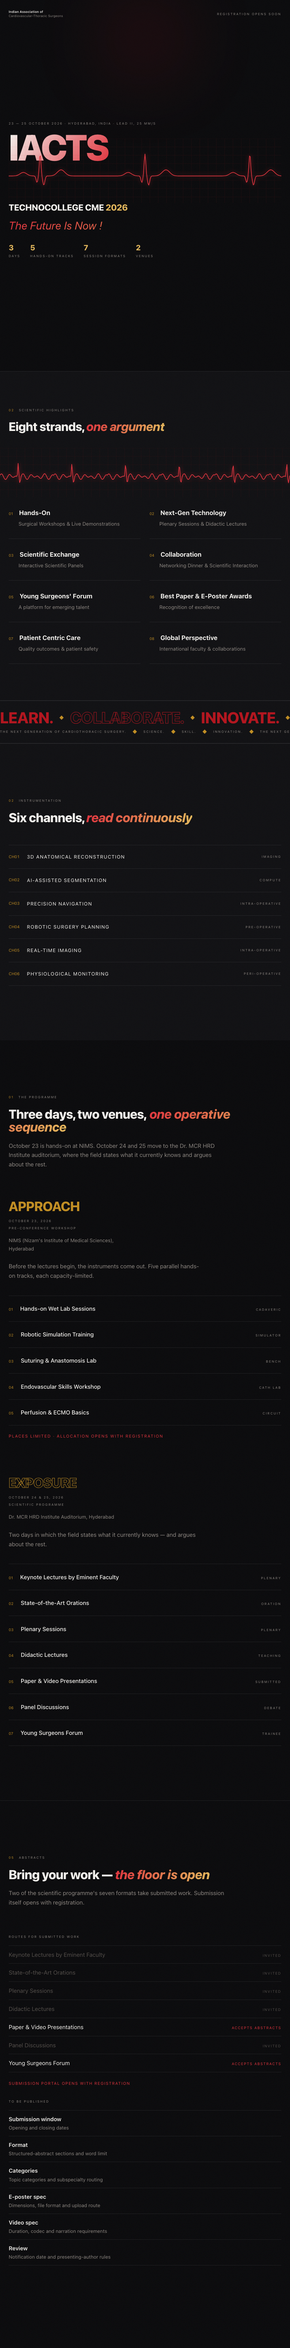
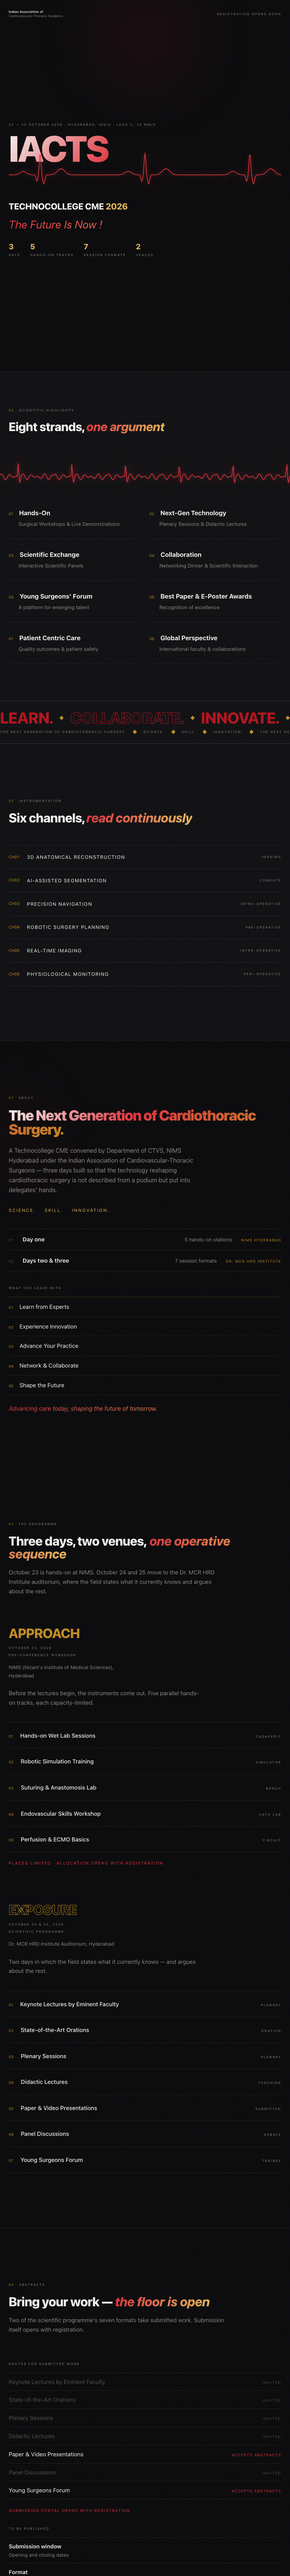
Fix dead #about nav anchor by building the About section it pointed at
NAV_ITEMS carried an About link to #about, which no section had - a link that
rendered and scrolled nowhere on all three routes. The Dock resolves each href
with getElementById, so the observer skipped it silently while still rendering
the item.

Rather than repoint the link at the values marquee, built the section that was
actually missing: nothing on any route stated what the conference IS or who
should attend. positioning, pillars, closingPromises, organisedBy and
association were all already in conference.ts and unused - the hero only ever
used acronym, city and theme - so About introduces no new fact and duplicates
nothing.

Also extends NAV_ITEMS to Faculty, Awards, Industry and FAQ, which existed with
no way to reach them, and makes the Dock row horizontally scrollable with
shrink-0 items so ten entries do not overflow a 360px viewport.

Verified all ten anchors resolve against rendered HTML on all three routes.

diff --git a/web/src/components/sections/About.tsx b/web/src/components/sections/About.tsx
@@ -1,0 +1,109 @@
+import { conference, closingPromises, days, venues } from "@/data/conference";
+
+/**
+ * About.
+ *
+ * This existed as a hole. NAV_ITEMS carried an "About" link pointing at
+ * `#about`, which no section had — a dead click on all three routes. More to
+ * the point, nothing anywhere on the site said what this conference IS or who
+ * should come, which is the first thing a surgeon deciding whether to spend
+ * three days in Hyderabad wants to know.
+ *
+ * Everything here was already in conference.ts and simply unused: `positioning`,
+ * `pillars`, `closingPromises`, `organisedBy`, `association`. The hero only ever
+ * used acronym / city / theme, so none of this duplicates it.
+ */
+export default function About() {
+  const structure = [
+    ["01", `Day one`, `${days[0].items.length} hands-on stations`, venues[0].name],
+    ["02", `Days two & three`, `${days[1].items.length} session formats`, venues[1].name],
+  ];
+
+  return (
+    <section
+      id="about"
+      className="relative overflow-hidden border-t border-[var(--hair)] u-shell py-[clamp(4rem,10vh,9rem)]"
+    >
+      <div
+        aria-hidden
+        className="pointer-events-none absolute -left-[14vw] top-[10%] size-[32vw] rounded-full opacity-35 blur-[100px]"
+        style={{ background: "radial-gradient(circle,rgba(179,18,28,.4) 0%,transparent 70%)" }}
+      />
+
+      <div className="relative grid gap-[clamp(2rem,5vw,5rem)] lg:grid-cols-[minmax(0,1fr)_minmax(0,0.85fr)]">
+        <div>
+          <p className="u-eyebrow flex items-center gap-3" data-r>
+            <span className="text-gold">01</span> About
+          </p>
+          <h2
+            className="mt-5 text-[clamp(2rem,5vw,4.2rem)] font-extrabold leading-[0.98] tracking-[-0.03em]"
+            data-r
+          >
+            <span className="u-word">{conference.positioning}</span>
+          </h2>
+          <p className="mt-6 max-w-lg text-[1rem] leading-relaxed text-muted" data-r>
+            A Technocollege CME convened by {conference.organisedBy} under the{" "}
+            {conference.association} — three days built so that the technology
+            reshaping cardiothoracic surgery is not described from a podium but
+            put into delegates&apos; hands.
+          </p>
+
+          <ul className="mt-8 flex list-none flex-wrap items-center gap-x-6 gap-y-2 p-0" data-r>
+            {conference.pillars.map((p) => (
+              <li
+                key={p}
+                className="font-mono text-[0.72rem] uppercase tracking-[0.2em] text-gold-lift"
+              >
+                {p}
+              </li>
+            ))}
+          </ul>
+
+          <div className="mt-10 border-t border-[var(--hair)]">
+            {structure.map(([n, when, what, where]) => (
+              <div
+                key={n}
+                data-r
+                className="grid grid-cols-[auto_1fr] items-baseline gap-x-4 border-b border-[var(--hair)] py-4 sm:grid-cols-[auto_1fr_auto_auto] sm:gap-x-6"
+              >
+                <span className="font-mono text-[0.62rem] tabular-nums text-faint">{n}</span>
+                <span className="text-[0.95rem] font-semibold">{when}</span>
+                <span className="col-start-2 text-[0.85rem] text-muted sm:col-start-auto">
+                  {what}
+                </span>
+                <span className="col-start-2 font-mono text-[0.6rem] uppercase tracking-[0.14em] text-gold sm:col-start-auto">
+                  {where}
+                </span>
+              </div>
+            ))}
+          </div>
+        </div>
+
+        <aside className="lg:pt-[clamp(3rem,8vh,7rem)]">
+          <p className="u-eyebrow text-gold-lift" data-r>
+            What you leave with
+          </p>
+          <ul className="mt-4 list-none border-t border-[var(--hair-gold)] p-0">
+            {closingPromises.map((c, i) => (
+              <li
+                key={c}
+                data-r
+                className="group flex items-baseline gap-4 border-b border-[var(--hair)] py-3.5"
+              >
+                <span className="font-mono text-[0.6rem] tabular-nums text-gold">
+                  {String(i + 1).padStart(2, "0")}
+                </span>
+                <span className="text-[0.95rem] transition-colors duration-500 group-hover:text-crimson-lift">
+                  {c}
+                </span>
+              </li>
+            ))}
+          </ul>
+          <p className="mt-6 u-serif text-[clamp(1rem,1.8vw,1.35rem)] leading-snug text-muted" data-r>
+            {conference.closing}
+          </p>
+        </aside>
+      </div>
+    </section>
+  );
+}

diff --git a/web/src/components/site/Dock.tsx b/web/src/components/site/Dock.tsx
@@ -59,14 +59,16 @@ export default function Dock() {
       }}
     >
       <div className="overflow-hidden rounded-full border border-[var(--hair-gold)] bg-black/55 backdrop-blur-xl">
-        <div className="flex items-center gap-1 px-2 py-1.5">
+        <div
+          className="flex max-w-[calc(100vw-1.6rem)] items-center gap-1 overflow-x-auto px-2 py-1.5 [-ms-overflow-style:none] [scrollbar-width:none] [&::-webkit-scrollbar]:hidden"
+        >
           {NAV_ITEMS.map((n) => {
             const on = active === n.href.slice(1);
             return (
               <Magnetic key={n.href} strength={0.22}>
                 <a
                   href={n.href}
-                  className={`block min-h-[34px] rounded-full px-3 py-2 font-mono text-[9.5px] uppercase tracking-[0.16em] no-underline transition-colors duration-300 ${
+                  className={`block min-h-[34px] shrink-0 rounded-full px-3 py-2 font-mono text-[9.5px] uppercase tracking-[0.16em] no-underline transition-colors duration-300 ${
                     on ? "bg-crimson text-bone" : "text-muted hover:text-bone"
                   }`}
                 >

diff --git a/web/src/lib/constants.ts b/web/src/lib/constants.ts
@@ -48,12 +48,22 @@ export const STATS = [
   { value: 2, label: "Venues" },
 ] as const;
 
+/**
+ * Dock navigation. Every href MUST correspond to a real `id` on a rendered
+ * section — the Dock resolves each one with getElementById, so a stale entry
+ * renders a link that scrolls nowhere. `#about` was exactly that until
+ * About.tsx was built. Verified against the rendered HTML, not just source.
+ */
 export const NAV_ITEMS = [
   { label: "About", href: "#about" },
   { label: "Programme", href: "#programme" },
   { label: "Workshops", href: "#workshops" },
+  { label: "Faculty", href: "#faculty" },
   { label: "Committee", href: "#committee" },
   { label: "Abstracts", href: "#abstracts" },
+  { label: "Awards", href: "#awards" },
+  { label: "Industry", href: "#sponsors" },
+  { label: "FAQ", href: "#faq" },
   { label: "Venue", href: "#venue" },
 ] as const;
 

diff --git a/web/src/app/concept3/page.tsx b/web/src/app/concept3/page.tsx
@@ -9,6 +9,7 @@ import Awards from "@/components/sections/Awards";
 import Faculty from "@/components/sections/Faculty";
 import Sponsors from "@/components/sections/Sponsors";
 import Faq from "@/components/sections/Faq";
+import About from "@/components/sections/About";
 import RegisterCta from "@/components/sections/RegisterCta";
 import Footer from "@/components/sections/Footer";
 import CinematicLoader from "@/components/site/CinematicLoader";
@@ -100,6 +101,7 @@ export default function Concept3() {
 
       <Ribbon />
       <Capabilities variant="telemetry" />
+      <About />
       <Programme />
       <Abstracts />
       <Committee />

diff --git a/web/src/app/concept1/page.tsx b/web/src/app/concept1/page.tsx
@@ -9,6 +9,7 @@ import Awards from "@/components/sections/Awards";
 import Faculty from "@/components/sections/Faculty";
 import Sponsors from "@/components/sections/Sponsors";
 import Faq from "@/components/sections/Faq";
+import About from "@/components/sections/About";
 import RegisterCta from "@/components/sections/RegisterCta";
 import Footer from "@/components/sections/Footer";
 import CinematicLoader from "@/components/site/CinematicLoader";
@@ -128,6 +129,7 @@ export default function Concept1() {
       </section>
 
       <Ribbon />
+      <About />
       <Capabilities variant="instrument" />
       <Programme />
       <Faculty />

diff --git a/web/src/app/concept2/page.tsx b/web/src/app/concept2/page.tsx
@@ -12,6 +12,7 @@ import Awards from "@/components/sections/Awards";
 import Faculty from "@/components/sections/Faculty";
 import Sponsors from "@/components/sections/Sponsors";
 import Faq from "@/components/sections/Faq";
+import About from "@/components/sections/About";
 import RegisterCta from "@/components/sections/RegisterCta";
 import Footer from "@/components/sections/Footer";
 import CinematicLoader from "@/components/site/CinematicLoader";
@@ -94,6 +95,7 @@ export default function Concept2() {
       </section>
 
       <Ribbon />
+      <About />
       <Strata />
       <Programme />
       <Faculty />
